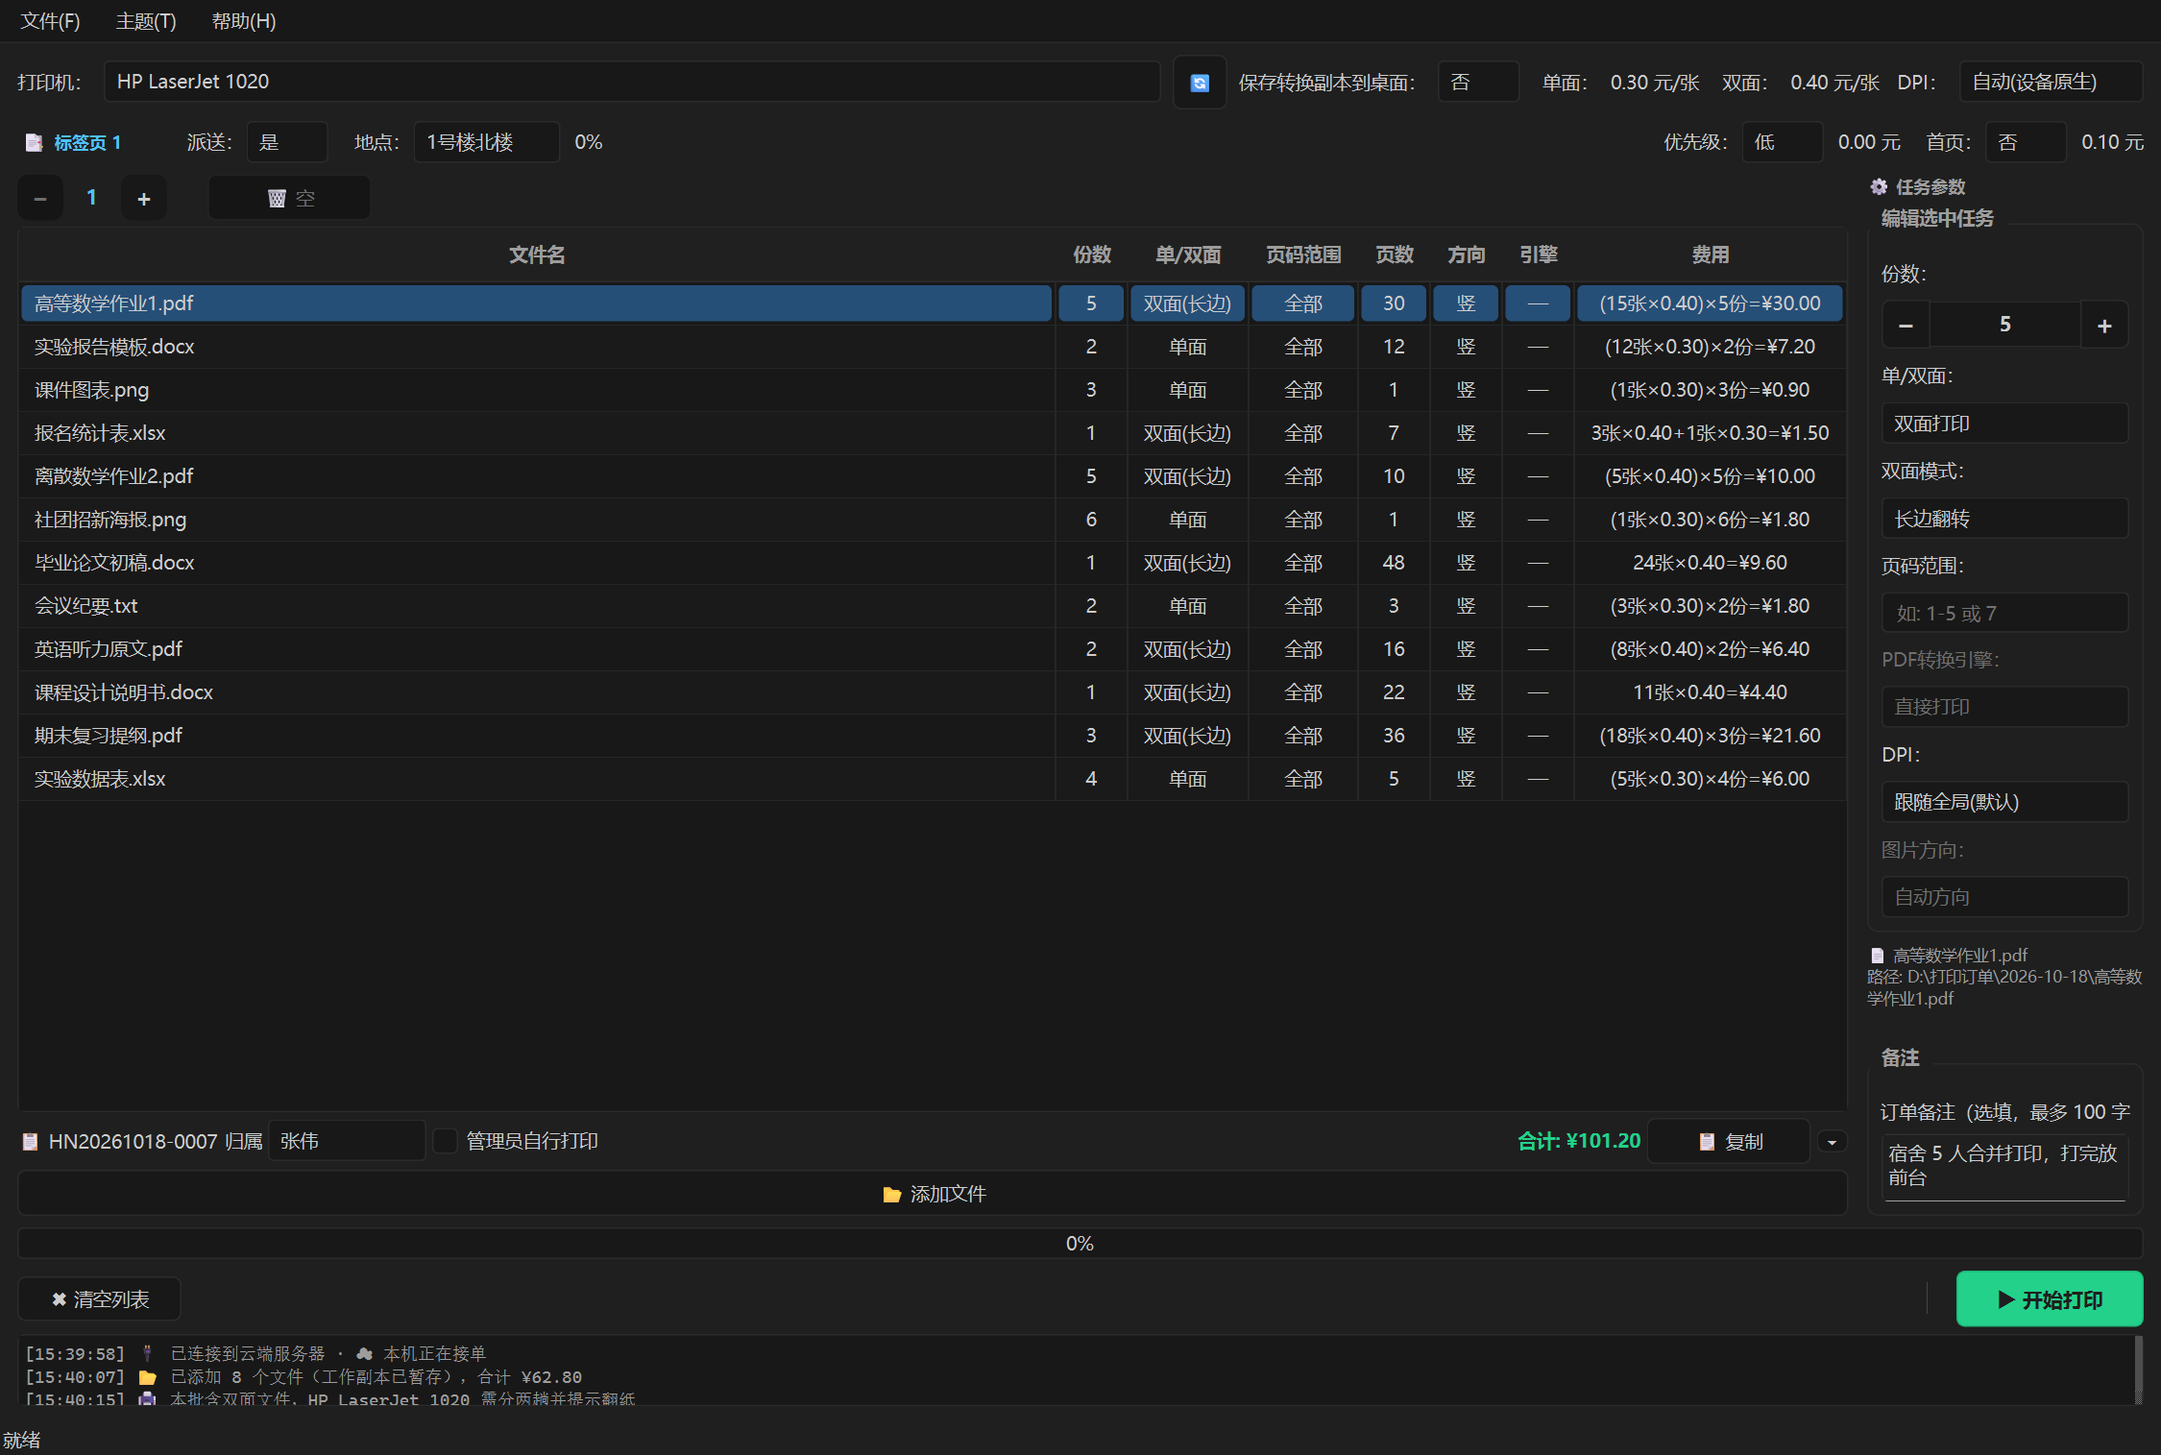
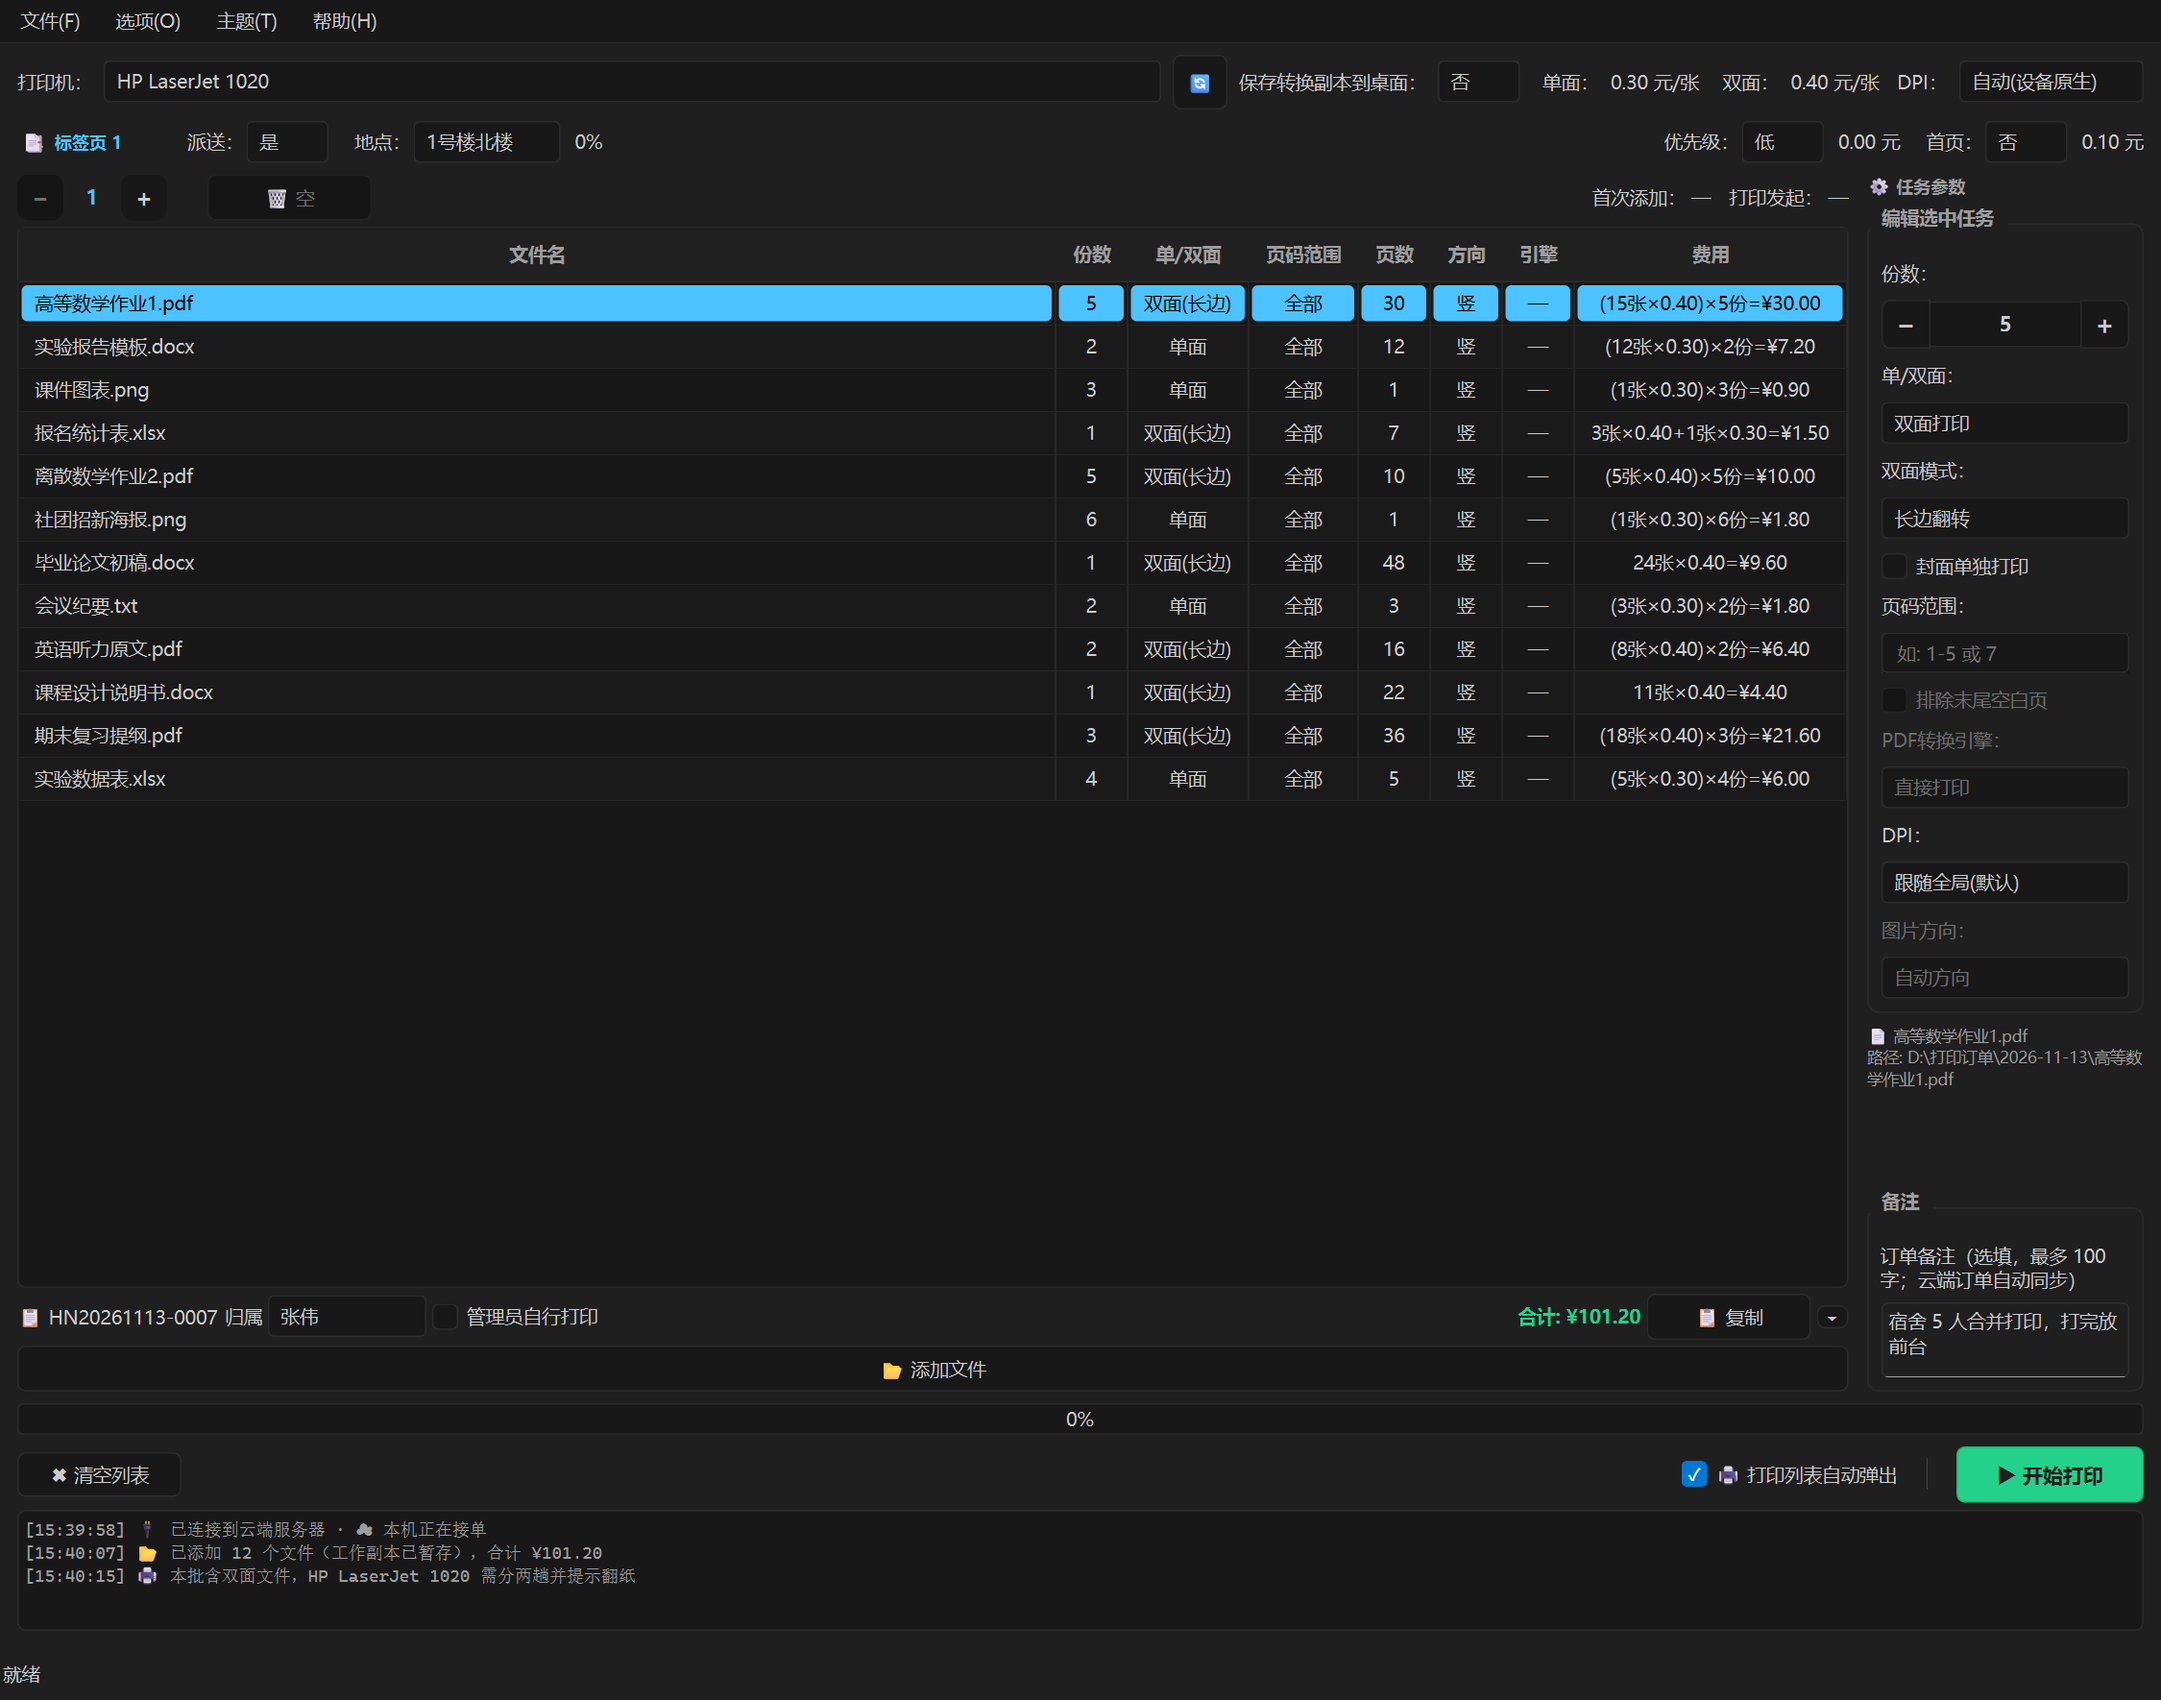
docs(readme): 重做四张界面图（4.6.13 实界面 + 生成器跟随当天）
- local-print-tool.png：按当前界面重渲染（选项菜单、封面单独打印、排除末尾空白页）；
  窗口 1500×1180、日志/备注取景抬高，日志里的文件数与金额改成界面真实读数（12 个 / ¥101.20），
  单号与原件路径按当天生成
- cloud-settlement.jpg：订单改为「本月 1 号~今天」，不再写死 2026-10，跨月重跑不会出空看板
- mini-program-print/me.jpg：预置「文件保留与隐私」已同意（否则整页被首次告知层遮住）；
  打印页长截前重算文件列表高度并重量内容，4 个已选文件完整可见
- 生成器 README 补上这几条坑

diff --git a/other/tools/readme_screenshots/gen_gui_shot.py b/other/tools/readme_screenshots/gen_gui_shot.py
@@ -20,6 +20,7 @@ import json
 import os
 import sys
 import tempfile
+from datetime import datetime
 
 sys.stdout = io.TextIOWrapper(sys.stdout.buffer, encoding="utf-8", errors="replace", line_buffering=True)
 
@@ -42,7 +43,7 @@ os.chdir(LOCAL_TOOL)
 
 import paths  # noqa: E402
 from PySide6.QtCore import Qt  # noqa: E402
-from PySide6.QtWidgets import QApplication  # noqa: E402
+from PySide6.QtWidgets import QApplication, QSplitter  # noqa: E402
 
 app = QApplication.instance() or QApplication([])
 
@@ -105,7 +106,9 @@ tm.set_mode(_theme.MODE_DARK)
 
 win = MainWindow(config_path=paths.config_path(), theme_manager=tm)
 win.setAttribute(Qt.WA_DontShowOnScreen, True)     # 布局照常算，但不真的弹窗
-win.resize(1500, 1010)
+# 1010 → 1180：4.6.x 右侧任务参数多了「封面单独打印」「排除末尾空白页」两行，
+# 1010 高时参数区被切成半行、备注框只剩一行半。高一点，整块面板看得全。
+win.resize(1500, 1180)
 win.show()
 app.processEvents()
 
@@ -125,14 +128,18 @@ SPECS = [
     ("实验数据表.xlsx",      5, 4, "off", ""),
 ]
 jobs = []
+# 订单号/原件路径跟着当天走：README 图不能永远是某一天的（旧图写死 2026-10-18）。
+_TODAY = datetime.now()
+_TODAY_STR = _TODAY.strftime("%Y-%m-%d")
+_ORDER_NO = "HN" + _TODAY.strftime("%Y%m%d") + "-0007"
 for i, (name, pages, copies, duplex, engine) in enumerate(SPECS):
     jobs.append(PrintJob(
         file_path=make_pdf(f"src{i}.pdf", pages),
         # source_path 只用于界面显示（“路径: …”那一行）：给一个像真订单的路径，
         # 免得 README 图上出现 %TEMP% 沙箱路径
-        source_path=os.path.join("D:\\打印订单\\2026-10-18", name),
+        source_path=os.path.join("D:\\打印订单\\" + _TODAY_STR, name),
         copies=copies, duplex=duplex, page_count=pages, orientation="portrait",
-        engine=engine, display_name=name, order_number="HN20261018-0007",
+        engine=engine, display_name=name, order_number=_ORDER_NO,
     ))
 
 tab = TabSettings(
@@ -186,14 +193,27 @@ win._table.selectRow(0)
 app.processEvents()
 
 # 日志区：写一段有代表性的模拟日志（真实时间戳会让图上看不出逻辑，这里用连续时刻）。
-# 只写 3 行：日志框默认高度正好放得下，多写会被裁在半行上。
+# 文件数/金额一律取界面真实读数 —— 旧版写死「8 个文件 ¥62.80」，而列表里是 12 个、合计 ¥101.20。
+_total_txt = win._total_label.text()
+_amount = _total_txt.split("¥")[-1].strip()
 LOG_LINES = [
     "[15:39:58] 🔌 已连接到云端服务器 · ☁ 本机正在接单",
-    "[15:40:07] 📂 已添加 8 个文件（工作副本已暂存），合计 ¥62.80",
+    f"[15:40:07] 📂 已添加 {len(SPECS)} 个文件（工作副本已暂存），合计 ¥{_amount}",
     "[15:40:15] 🖨 本批含双面文件，HP LaserJet 1020 需分两趟并提示翻纸",
 ]
 win._log_text.setPlainText("\n".join(LOG_LINES))
 
+# 取景微调（只影响截图，不改真实默认值）：
+#  ① 日志框默认 50px（gui.py:8657 setSizes([650, 50])）只放得下两行半 → 抬到 3 行高；
+#  ② 右侧「备注」默认 60px（gui.py:13861 setSizes([580, 60])）文字被下边框切掉 → 抬到三行输入框。
+for _sp in win.findChildren(QSplitter):
+    if _sp.count() != 2:
+        continue
+    _w = _sp.widget(1)
+    if _w is win._log_text:
+        _sp.setSizes([900, 84])
+    elif getattr(_w, "title", lambda: "")() == "备注":
+        _sp.setSizes([900, 140])
 app.processEvents()
 os.makedirs(os.path.dirname(OUT), exist_ok=True)
 pix = win.grab()

diff --git a/other/tools/readme_screenshots/README.md b/other/tools/readme_screenshots/README.md
@@ -20,6 +20,19 @@ README 里的四张界面图**不是手工截的**，而是用真实界面 + 一
   四张图看起来才像同一家店。
 - **不要写真实的人名/微信昵称/头像/服务器地址**：这几张图是公开仓库的内容。
 - `sizeDisplay` 是**KB 数值**（模板自己拼 " KB"），别再传 `'1.8 MB'`。
+- **日期一律按运行当天派生，别写死**：结算页默认口径是**本自然月**
+  （`settlement.html` 的 `_scopeTime.mode='month'` → `monthRange(currentMonthKey())`），
+  生成器里的订单/单号/暂存路径都从 `NOW` 算（`buildOrders()` 造本月 1 号~今天）。
+  写死某个月重跑，跨月那天就是**一张空看板**；单号因此是 `HN<当天>-0007` 这种形式。
+- **移动端首次进页面会弹「文件保留与隐私」告知层**（S2-08）：生成器在 `addInitScript`
+  里预写 localStorage `hn_privacy_agreed_v1='1'` + `hn_retention_hours_v1='0'`，
+  否则整页被遮罩糊住、只能截到一个弹层。
+- **打印页文件列表高度受 `innerHeight*0.85` 封顶**（`print.js` 的 `recalcFileListHeight`）：
+  长截先拉长视口，再调一次 `recalcFileListHeight()` 并**重量一次内容高度**，
+  否则第 4 个文件仍被裁掉、截图底部还会漏出固定 tabBar。
+- **GUI 图的取景**：窗口按 1500×1180 出图（4.6.x 右侧多了「封面单独打印 / 排除末尾空白页」，
+  1010 高会把参数区切成半行）；出图前还把日志分隔条抬到能放下 3 行、备注区抬到 140px。
+  这些只是截图取景，**不改真实默认值**（`gui.py` 里仍是 50px / 60px）。
 - `/api/printer_status` 的 `active` 在**顶层**（不是 `data.active`）——app.js 的 `api()` 返回
   `{status, data: 整个 body}`，写错就永远显示「打印机离线」。
 - 手机页两个 `scroll-content`（`scrollContentPrint` / `scrollContentMe`）**不能**用
